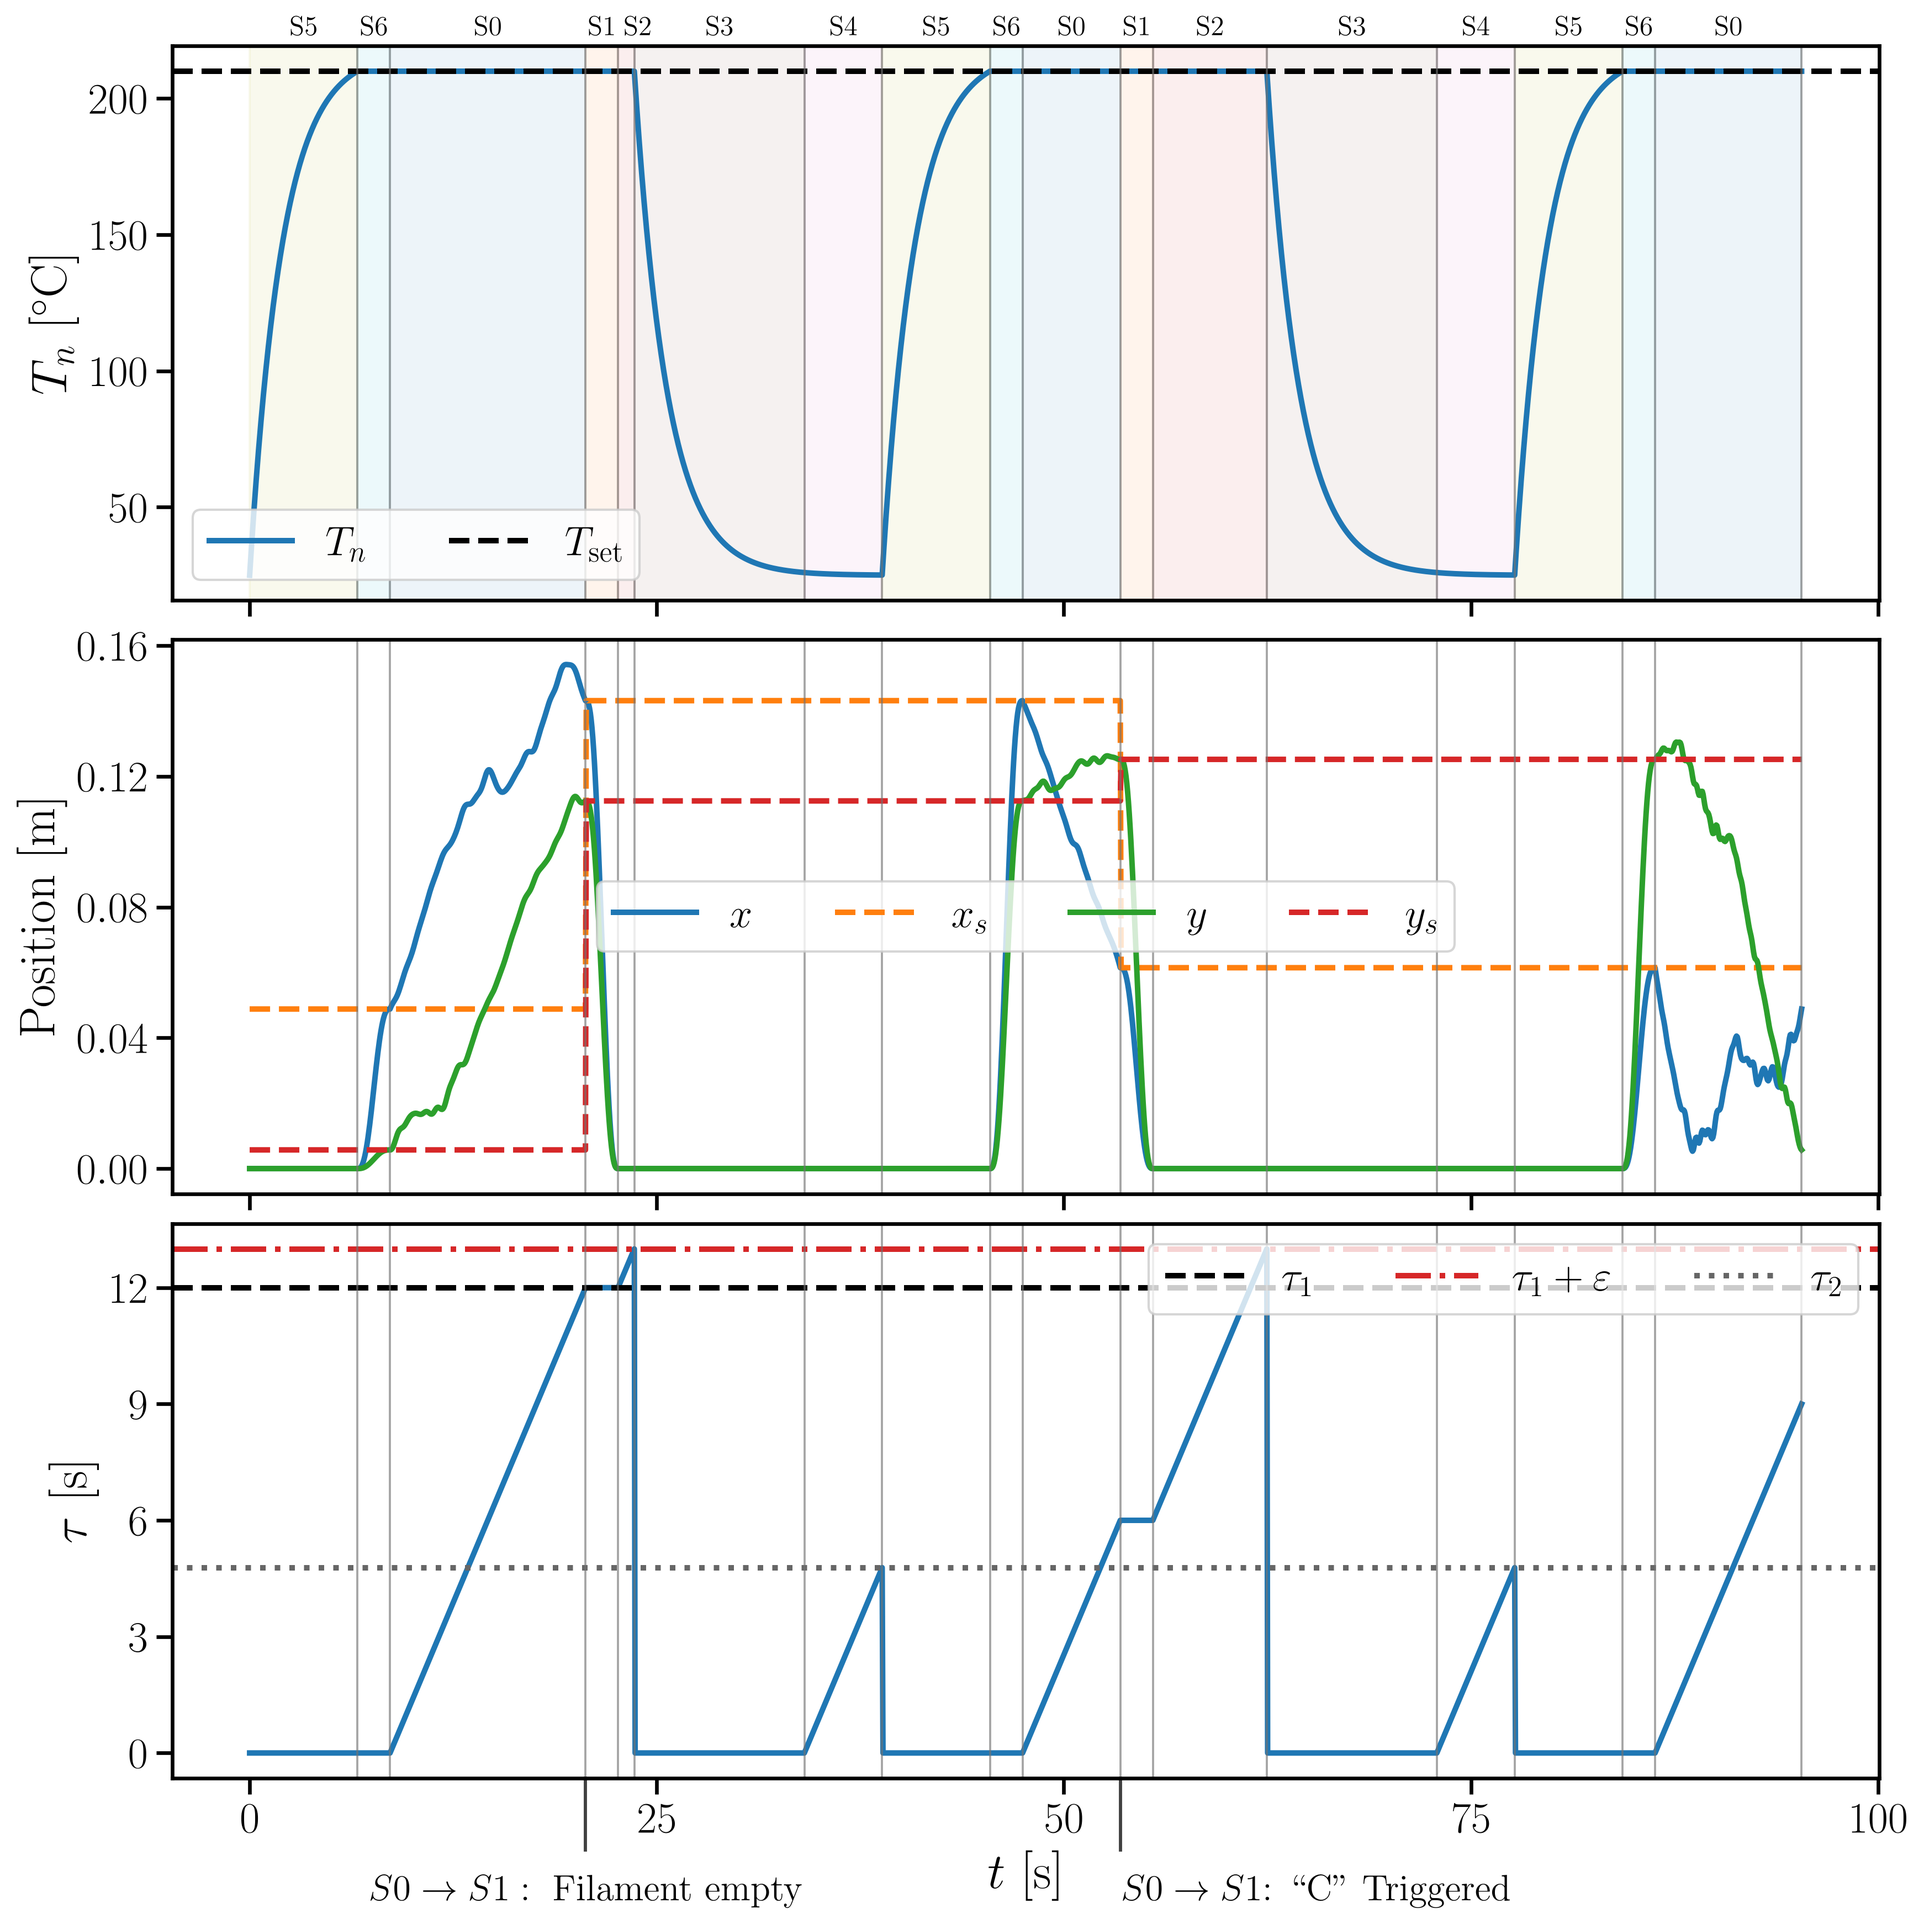
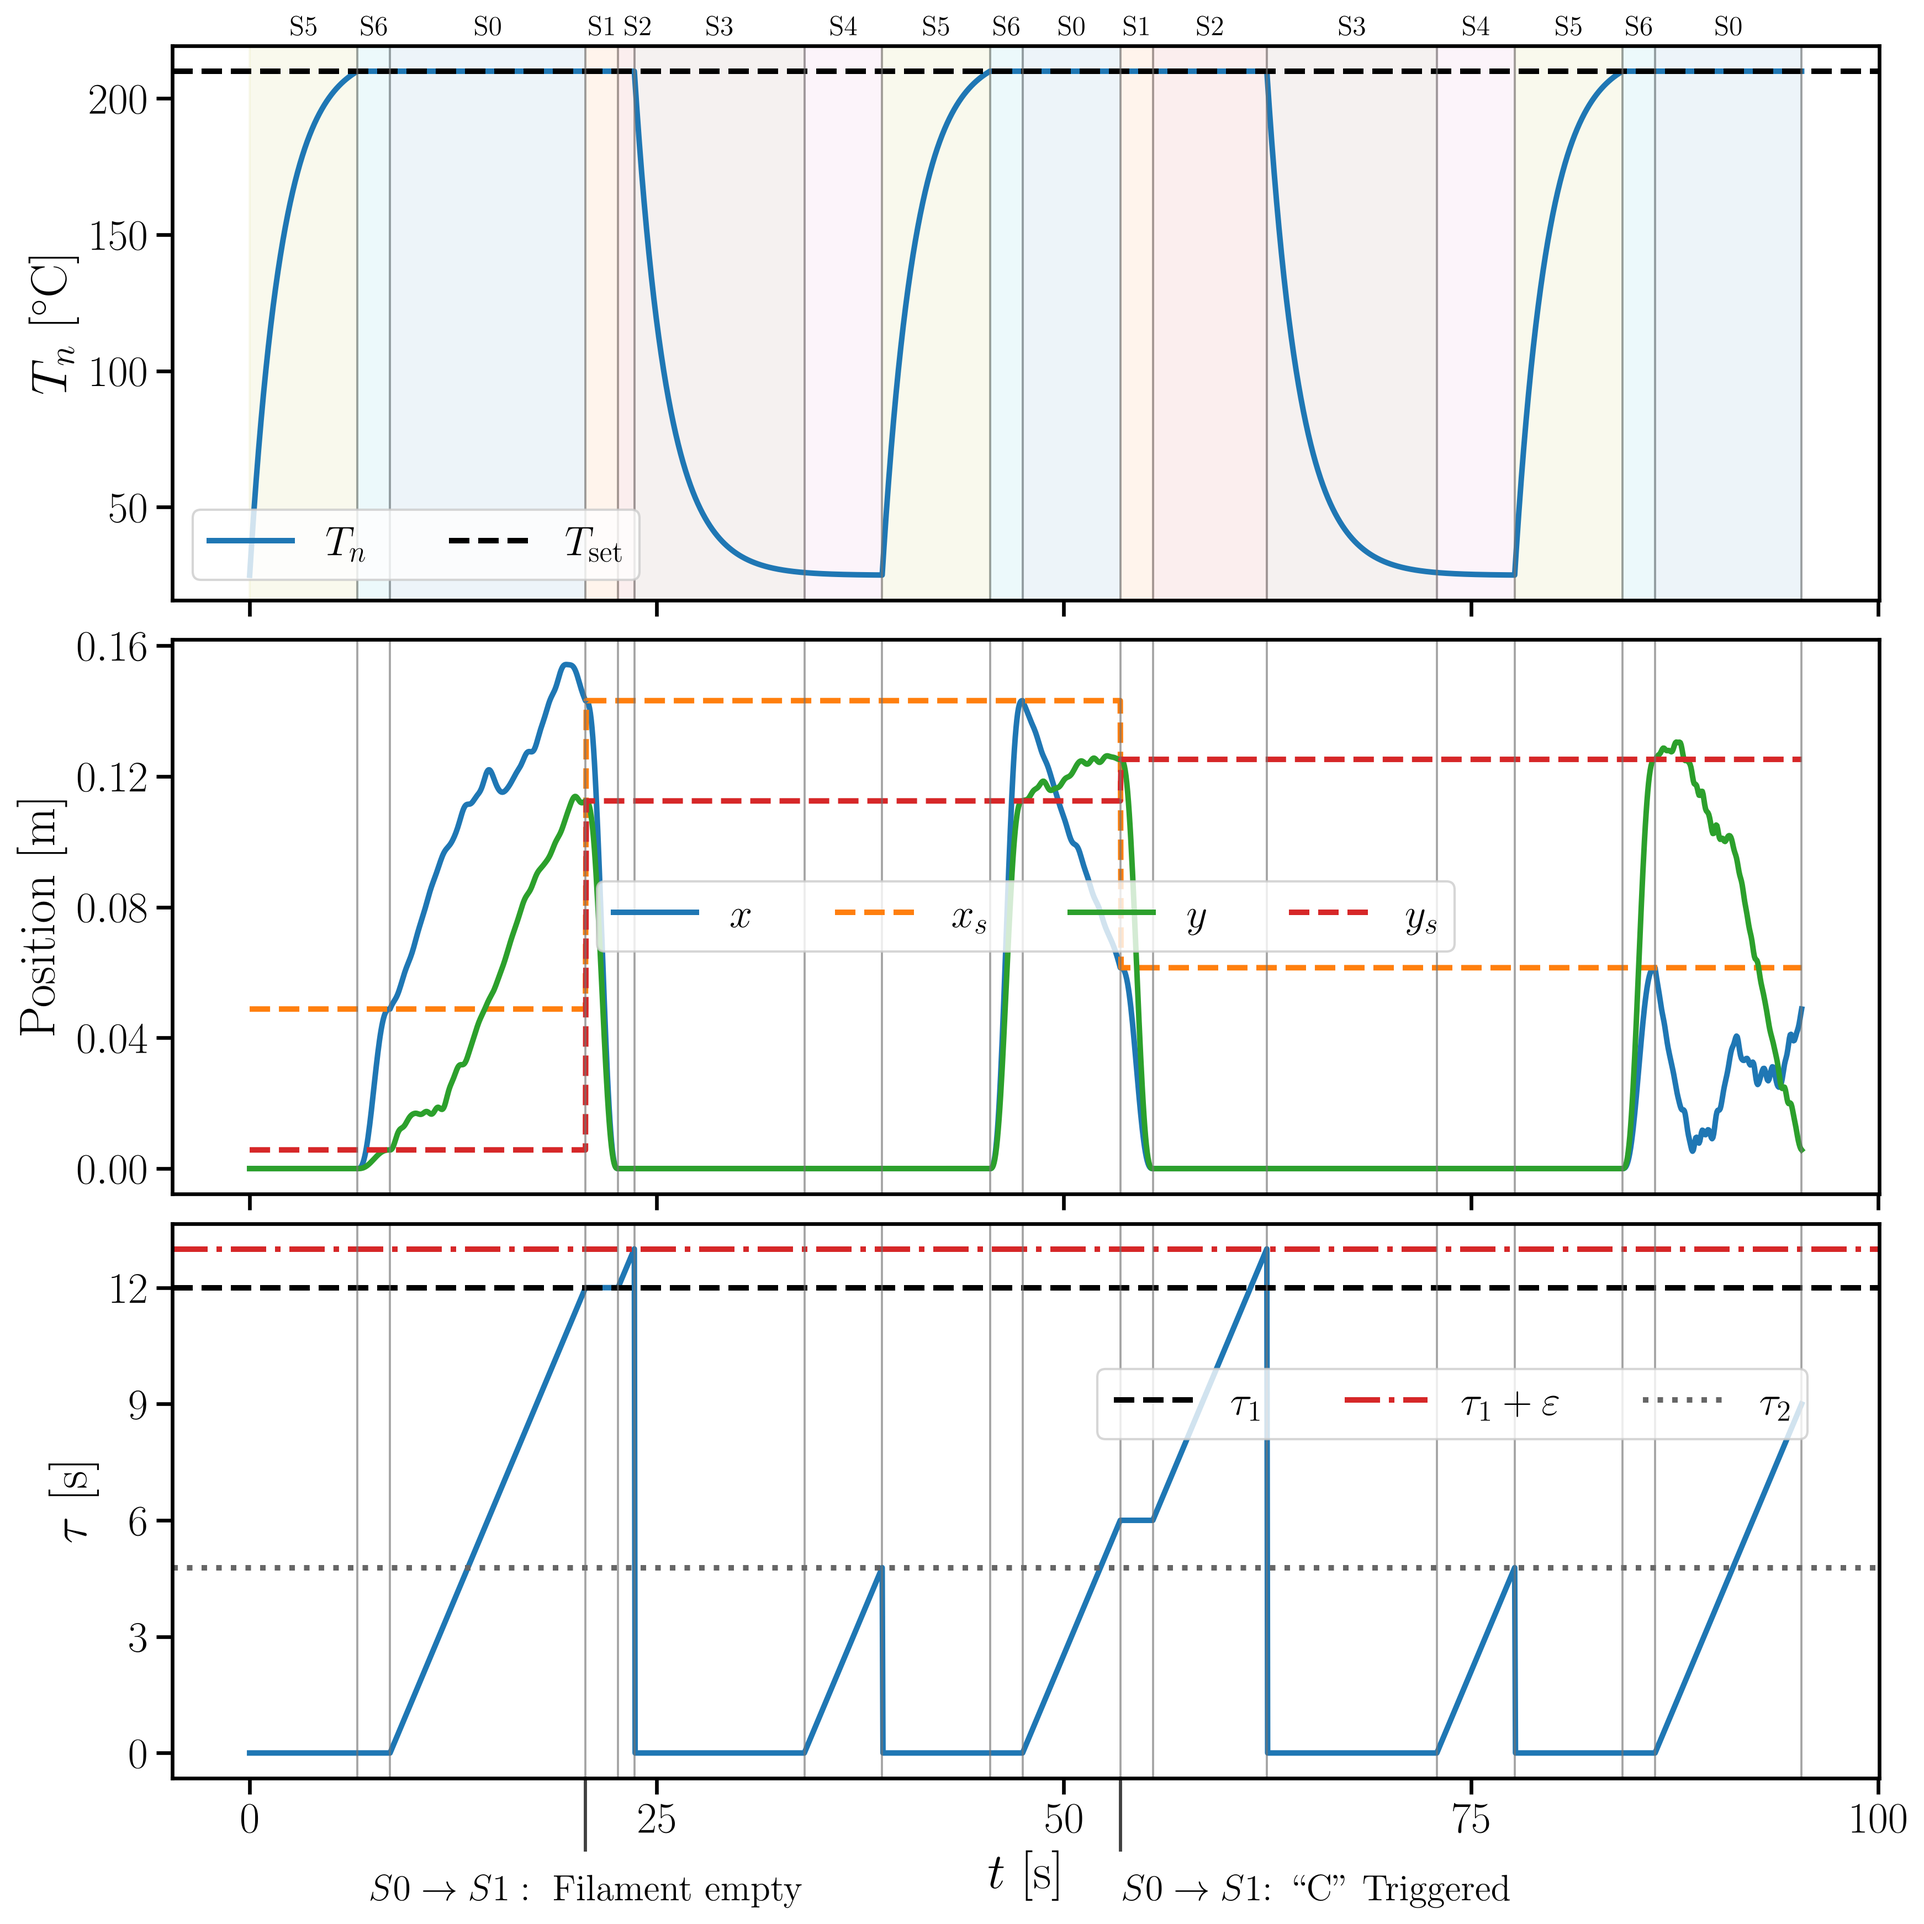
Improve hybrid model plots

Changed region(s): [[0.589, 0.62, 0.961, 0.682], [0.558, 0.713, 0.682, 0.744], [0.93, 0.713, 0.961, 0.744]]

diff --git a/Q3.1/q3_1.py b/Q3.1/q3_1.py
@@ -112,7 +112,12 @@ def plot_histories(model, solution, destination: Path) -> None:
         label=r"$\tau_2$",
     )
     axes[2].set(xlabel=r"$t\ [\mathrm{s}]$", ylabel=r"$\tau\ [\mathrm{s}]$")
-    axes[2].legend(ncol=3)
+    axes[2].legend(
+        ncol=3,
+        loc="center",
+        bbox_to_anchor=(0.75, 9.0),
+        bbox_transform=axes[2].get_yaxis_transform(),
+    )
 
     mark_modes(axes, solution)
     for ax in axes:
